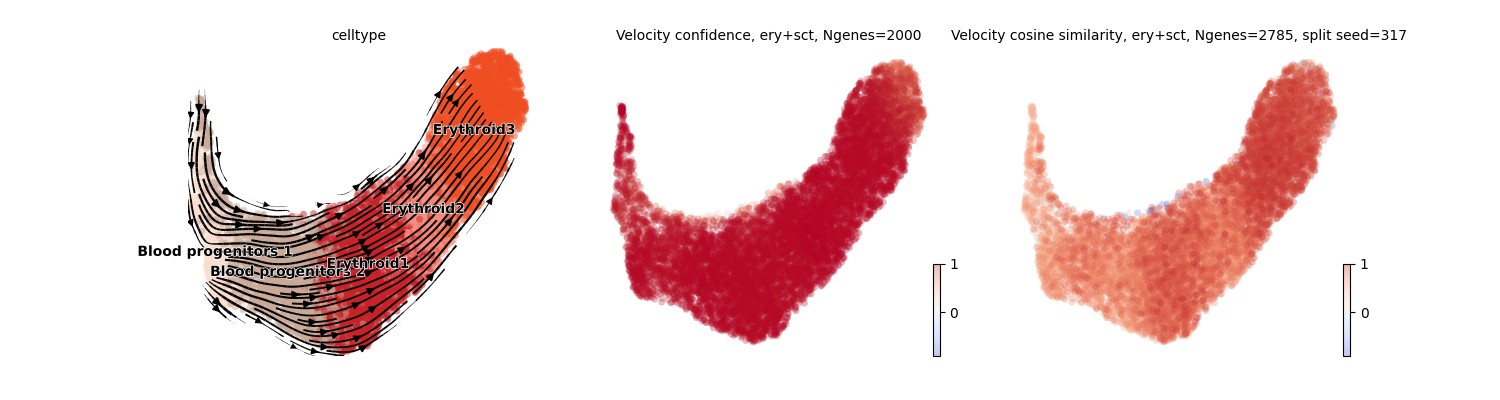
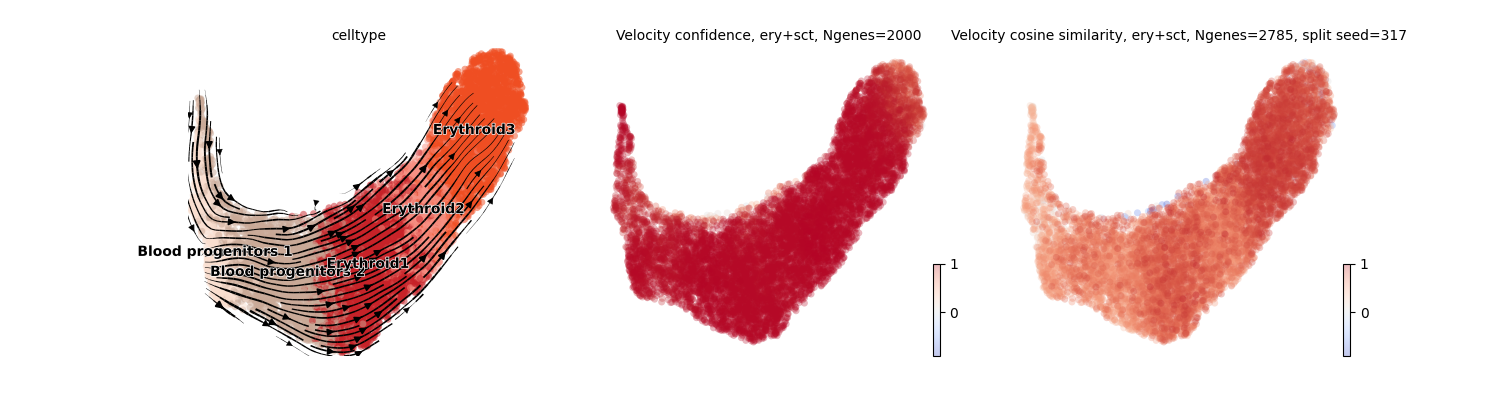
update sct figures ery, code

Changed region(s): [[0.1227, 0.18, 0.3373, 0.9]]

diff --git a/code/yuhong/erythroid/v4/seed317/sct_3plots.py b/code/yuhong/erythroid/v4/seed317/sct_3plots.py
@@ -79,16 +79,7 @@ plot_cosine_similarity_withRef(split1,split2,total,dataset_short,method,fig_fold
 plot_cosine_similarity_hist_by_celltype(adata_split1=split1,adata_split2=split2,adata_total=total,dataset=dataset_short,method=method,fig_folder=fig_folder,split_seed=split_seed)
 plot_cosine_similarity_boxplot_by_celltype(adata_split1=split1,adata_split2=split2,adata_total=total,dataset=dataset_short,method=method,fig_folder=fig_folder,split_seed=split_seed)
 
-"""
->>> np.corrcoef([c2,total.obs['ptime'],total.obs['velocity_confidence']])
-array([[ 1.        ,  0.39571204,  0.39549537],
-       [ 0.39571204,  1.        , -0.2266979 ],
-       [ 0.39549537, -0.2266979 ,  1.        ]])
->>> np.corrcoef([c2,total.obs['velocity_pseudotime'],total.obs['velocity_confidence']])
-array([[ 1.        ,  0.37199716,  0.39549537],
-       [ 0.37199716,  1.        , -0.17789574],
-       [ 0.39549537, -0.17789574,  1.        ]])
-"""
+
 ######################################################
 ## plot velo_conf
 scv.tl.velocity_confidence(total)
@@ -101,6 +92,17 @@ plot_velo_conf_boxplot_by_celltype(total,dataset_short,method,fig_folder,split_s
 
 print(np.corrcoef(split1.obs['velocity_confidence'],split2.obs['velocity_confidence'])) # 0.13712638
 
+"""
+c2,n2 = compute_cosine_similarity_union(split1,split2,method)
+>>> np.corrcoef([c2,total.obs['ptime'],total.obs['velocity_confidence']])
+array([[ 1.        ,  0.39571204,  0.39549537],
+       [ 0.39571204,  1.        , -0.2266979 ],
+       [ 0.39549537, -0.2266979 ,  1.        ]])
+>>> np.corrcoef([c2,total.obs['velocity_pseudotime'],total.obs['velocity_confidence']])
+array([[ 1.        ,  0.40089462,  0.39549537],
+       [ 0.40089462,  1.        , -0.140205  ],
+       [ 0.39549537, -0.140205  ,  1.        ]])
+"""
 ######################################################
 ## ptime
 scv.tl.velocity_pseudotime(total,use_velocity_graph=False)
@@ -113,21 +115,21 @@ plot_pseudotime(adata_in=total,data_version='total',dataset=dataset_short,method
 
 ptime_correlation_scatter_spearman(s1=split1,s2=split2,method=method,dataset=dataset_short,name='split1vs2',xlab='split1',ylab='split2',fig_folder=fig_folder,time_label='velocity_pseudotime',split_seed=split_seed)
 
-
+"""
 plot_pseudotime_diffusion(adata_in=split1,data_version='split1',dataset=dataset_short,method=method,fig_folder=fig_folder,split_seed=split_seed,ptime_label='velocity_pseudotime')
 plot_pseudotime_diffusion(adata_in=split2,data_version='split2',dataset=dataset_short,method=method,fig_folder=fig_folder,split_seed=split_seed,ptime_label='velocity_pseudotime')
 plot_pseudotime_diffusion(adata_in=total,data_version='total',dataset=dataset_short,method=method,fig_folder=fig_folder,split_seed=split_seed,ptime_label='velocity_pseudotime')
 
 ptime_diffusion_correlation_scatter_spearman(s1=split1,s2=split2,method=method,dataset=dataset_short,name='split1vs2',xlab='split1',ylab='split2',fig_folder=fig_folder,time_label='velocity_pseudotime',split_seed=split_seed)
-
+"""
 
 print_ptime_corr_by_celltype(split1,split2,total,dataset_short,ptime_label='velocity_pseudotime')
 print_ptime_corr_by_celltype(split1,split2,total,dataset_short,ptime_label='ptime')
 
 """
 >>> print_ptime_corr_by_celltype(split1,split2,total,dataset_short,ptime_label='velocity_pseudotime')
-Blood progenitors 1 0.9098
-Blood progenitors 2 0.8911
+Blood progenitors 1 0.9099
+Blood progenitors 2 0.891
 Erythroid1 0.6146
 Erythroid2 0.4917
 Erythroid3 0.5882

diff --git a/veloUncertainty/v4_functions_velovi.py b/veloUncertainty/v4_functions_velovi.py
@@ -7,27 +7,20 @@ import datetime
 from velovi import preprocess_data, VELOVI
 import sys
[1 lines of base64/hex data omitted]
+from v4_functions import read_data_v4,read_raw_adata,print_message_with_time
 
-
-def print_message_with_time(message):
-    current_time = datetime.datetime.now().strftime("%Y-%m-%d %H:%M:%S")
-    print(f"{message} at {current_time}")
-
-def velovi_run_model(data_version,dataset,method,data_folder,split_seed):
+def velovi_run_model(data_version,dataset_long,dataset_short,method,data_folder,split_seed):
     from velovi import preprocess_data, VELOVI
     adata = None
-    print_message_with_time("#################### "+dataset+'_'+method+'_'+data_version+": Read data ")
-    if 'split' in data_version: 
-        adata = sc.read_h5ad(data_folder+'seed'+str(split_seed)+'_larry_'+data_version+'_allgenes.h5ad')
-    elif data_version == 'total':
-        adata = sc.read_h5ad(data_folder+dataset+'_total_allgenes.h5ad')
+    print_message_with_time("#################### "+dataset_long+'_'+method+'_'+data_version+": Read data ")
+    adata = read_data_v4(dataset_long,dataset_short,method,split_seed,data_version,allgenes=True,outputAdded=False)
     gene_names = adata.var.index.copy()
     S_mat = adata.layers['spliced'].copy()
     U_mat = adata.layers['unspliced'].copy()
     print_message_with_time("#################### "+data_version+": Preprocess data ")
     scv.pp.filter_and_normalize(adata, min_shared_counts=20, n_top_genes=2000) # 30 in tutorial
     scv.pp.moments(adata, n_pcs=30, n_neighbors=30)
-    if 'wop' in method: adata = preprocess_data(adata)
+    if (not 'wop' in method): adata = preprocess_data(adata)
     # train and apply model
     print_message_with_time("#################### "+data_version+": Train model ")
     VELOVI.setup_anndata(adata, spliced_layer="Ms", unspliced_layer="Mu")
@@ -36,7 +29,7 @@ def velovi_run_model(data_version,dataset,method,data_folder,split_seed):
     # save vae
     savedata_folder = data_folder+'seed'+str(split_seed)+'/'+method+'/'
     print_message_with_time("#################### "+data_version+": Save vae ")
-    vae.save(savedata_folder+'vae_'+dataset+'_'+method+'_'+data_version+'_v4.pt',overwrite=True)
+    vae.save(savedata_folder+'vae_'+dataset_short+'_'+method+'_'+data_version+'_v4.pt',overwrite=True)
     # save original counts
     positions_dict = {gene: pos for pos, gene in enumerate(gene_names)}
     positions = [positions_dict[gene] for gene in adata.var.index]
@@ -44,5 +37,5 @@ def velovi_run_model(data_version,dataset,method,data_folder,split_seed):
     adata.layers['unspliced_original'] = U_mat[:,positions]
     # write data
     print_message_with_time("#################### "+data_version+": Save adata (final version) ")
-    adata.write(filename=savedata_folder+'adata_'+dataset+'_'+method+'_'+data_version+'_v4.h5ad')
+    adata.write(filename=savedata_folder+'adata_'+dataset_short+'_'+method+'_'+data_version+'_v4.h5ad')
     print_message_with_time("#################### "+data_version+": All done for "+dataset+'_'+method+'_'+data_version)
